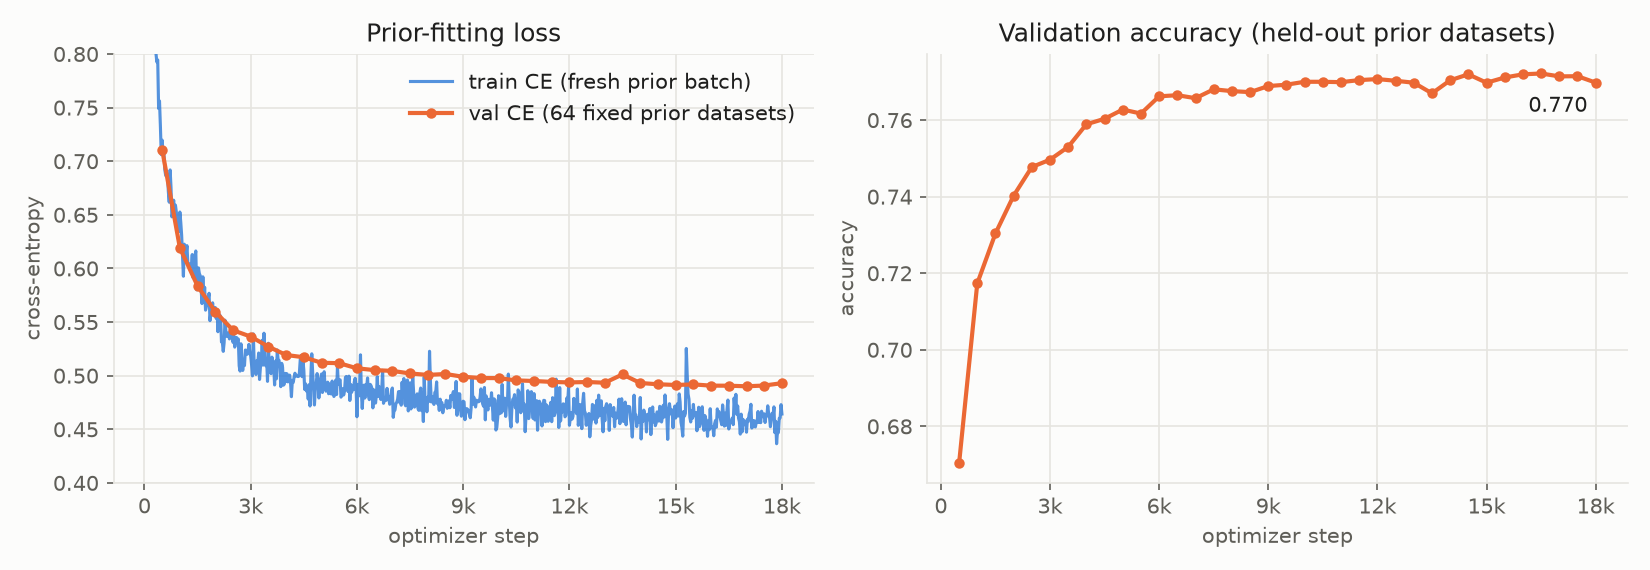
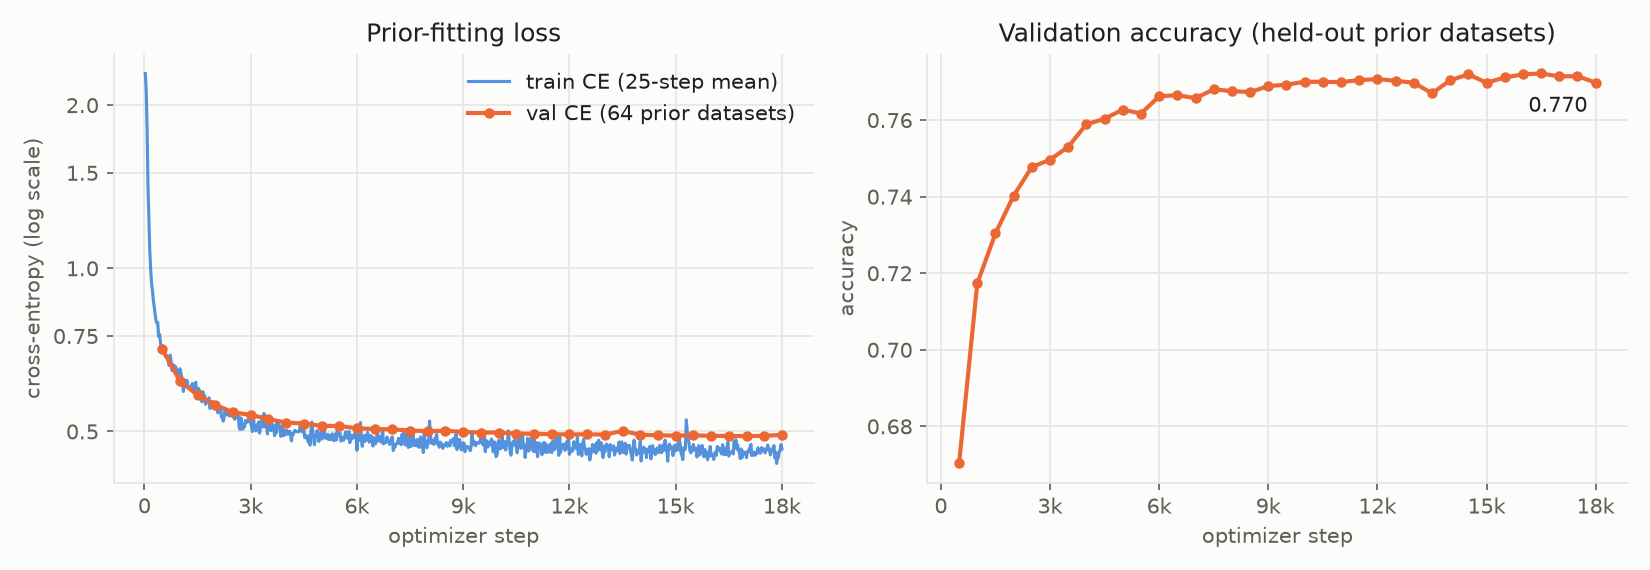
hub: address review on the TabPFN v1 card and push script
- plot_tabpfn_card.py regenerates the card figures from a run's history.json
  and eval_table1/ and prints the numbers the card quotes. The loss panel now
  uses a log axis so the curve is visible from the start (2.29) to the end.
- The card names the MLflow run its figures come from, and describes train CE
  as a 25-step mean, which is what train.py logs.
- push_tabpfn_to_hub.py starts from an empty staging folder, copies only the
  images the card links to (inside the card's images/), refuses --run-id when
  the card names another run, deletes Hub images the card no longer uses, and
  lists every prepared file.

diff --git a/scripts/plot_tabpfn_card.py b/scripts/plot_tabpfn_card.py
@@ -1,0 +1,176 @@
+"""학습 run의 기록으로 Hub 모델 카드의 그림을 만든다.
+
+예) 저장소 루트에서 (.env.local을 불러온 셸)
+  MLFLOW_TRACKING_URI=databricks \
+    uv run python scripts/plot_tabpfn_card.py --run-id <학습 run_id>
+
+run의 `history.json`과 `eval_table1/eval_per_dataset.csv`(`eval_tabpfn.py --run-id`가 남긴다)를
+내려받아 `--out-dir`(기본 `hub/minipfn-tabpfn-v1/images/`)에 두 그림을 쓴다.
+
+- `training_curves.png`: train CE(25 step 평균)와 val CE, val accuracy
+- `table1_roc_auc.png`: Table 1 데이터셋별 ROC AUC, TabPFN과 sklearn 기본값 중 가장 좋은 것
+
+카드 본문에 적을 수치(마지막 val CE·accuracy, 평균 ROC AUC)도 함께 출력한다.
+그림 안의 글자는 영어로 쓴다.
+"""
+
+from __future__ import annotations
+
+import argparse
+import json
+from pathlib import Path
+
+import matplotlib.pyplot as plt
+import mlflow
+import numpy as np
+import pandas as pd
+
+from minipfn.tabpfn import spec
+
+REPO_ROOT = Path(__file__).resolve().parents[1]
+BASELINES = [
+    "LogisticRegression (default)",
+    "HistGradientBoosting (default)",
+    "RandomForest (default)",
+]
+BLUE, ORANGE, GRAY = "#2a78d6", "#eb6834", "#8a8984"
+INK, MUTED, GRID, SURFACE = "#1f1f1e", "#5f5e58", "#e6e5e0", "#fcfcfb"
+STYLE = {
+    "figure.facecolor": SURFACE,
+    "axes.facecolor": SURFACE,
+    "savefig.facecolor": SURFACE,
+    "axes.edgecolor": GRID,
+    "axes.labelcolor": MUTED,
+    "xtick.color": MUTED,
+    "ytick.color": MUTED,
+    "text.color": INK,
+    "axes.grid": True,
+    "grid.color": GRID,
+    "grid.linewidth": 0.8,
+    "axes.spines.top": False,
+    "axes.spines.right": False,
+    "font.size": 10,
+    "legend.frameon": False,
+}
+
+
+def parse_args(argv: list[str] | None = None) -> argparse.Namespace:
+    parser = argparse.ArgumentParser(description=__doc__.splitlines()[0])
+    parser.add_argument("--run-id", required=True, help="학습 run (history.json, eval_table1/)")
+    parser.add_argument("--out-dir", type=Path, default=REPO_ROOT / "hub/minipfn-tabpfn-v1/images")
+    return parser.parse_args(argv)
+
+
+def plot_training_curves(h: dict, path: Path) -> None:
+    fig, axes = plt.subplots(1, 2, figsize=(11, 3.8))
+    ax = axes[0]
+    ax.plot(
+        h["step"], h["train_ce"], color=BLUE, lw=1.5, alpha=0.8, label="train CE (25-step mean)"
+    )
+    ax.plot(
+        h["val_step"],
+        h["val_ce"],
+        "o-",
+        color=ORANGE,
+        lw=2,
+        ms=4,
+        label="val CE (64 prior datasets)",
+    )
+    # 처음 loss(약 2.3)와 끝 loss(약 0.46)를 한 그림에 담으려고 log 축을 쓴다.
+    ax.set_yscale("log")
+    ax.set_yticks([0.5, 0.75, 1.0, 1.5, 2.0], ["0.5", "0.75", "1.0", "1.5", "2.0"])
+    ax.minorticks_off()
+    ax.set(xlabel="optimizer step", ylabel="cross-entropy (log scale)", title="Prior-fitting loss")
+    ax.legend(loc="upper right")
+    ax = axes[1]
+    ax.plot(h["val_step"], h["val_acc"], "o-", color=ORANGE, lw=2, ms=4)
+    ax.annotate(
+        f"{h['val_acc'][-1]:.3f}",
+        (h["val_step"][-1], h["val_acc"][-1]),
+        xytext=(-4, -14),
+        textcoords="offset points",
+        ha="right",
+        color=INK,
+    )
+    ax.set(
+        xlabel="optimizer step",
+        ylabel="accuracy",
+        title="Validation accuracy (held-out prior datasets)",
+    )
+    for a in axes:
+        a.xaxis.set_major_locator(plt.MultipleLocator(3000))
+        a.xaxis.set_major_formatter(lambda x, _: f"{x / 1000:.0f}k" if x else "0")
+    fig.tight_layout()
+    fig.savefig(path, dpi=150)
+    plt.close(fig)
+
+
+def plot_table1(per_dataset: pd.DataFrame, path: Path) -> float:
+    wide = per_dataset.pivot(index="dataset", columns="method", values="roc_auc")
+    wide["baseline"] = wide[BASELINES].max(axis=1)
+    wide = wide.sort_values("TabPFN")
+    mean = wide["TabPFN"].mean()
+
+    fig, ax = plt.subplots(figsize=(8, 6.5))
+    y = np.arange(len(wide))
+    lo = wide[["TabPFN", "baseline"]].min(axis=1)
+    hi = wide[["TabPFN", "baseline"]].max(axis=1)
+    ax.hlines(y, lo, hi, color=GRID, lw=2, zorder=1)
+    ax.scatter(
+        wide["baseline"],
+        y,
+        s=45,
+        marker="s",
+        color=GRAY,
+        zorder=2,
+        label="best sklearn default (LR / HGB / RF)",
+    )
+    ax.scatter(
+        wide["TabPFN"],
+        y,
+        s=55,
+        color=BLUE,
+        edgecolors=SURFACE,
+        linewidths=1.5,
+        zorder=3,
+        label="minipfn TabPFN (ensemble 32)",
+    )
+    ax.set_yticks(y, wide.index, fontsize=9)
+    ax.grid(axis="y", visible=False)
+    ax.set_xlabel("ROC AUC (mean over 5 splits)")
+    paper = spec.PAPER_TABLE1_ROC_AUC["TabPFN"]
+    ax.set_title(
+        f"Table 1 datasets (OpenML-CC18)\nmean ROC AUC {mean:.3f} (paper {paper:.3f})", loc="left"
+    )
+    ax.legend(loc="lower right", fontsize=9)
+    fig.tight_layout()
+    fig.savefig(path, dpi=150)
+    plt.close(fig)
+    return mean
+
+
+def main(argv: list[str] | None = None) -> None:
+    args = parse_args(argv)
+    args.out_dir.mkdir(parents=True, exist_ok=True)
+    history = json.loads(
+        Path(
+            mlflow.artifacts.download_artifacts(run_id=args.run_id, artifact_path="history.json")
+        ).read_text()
+    )
+    per_dataset = pd.read_csv(
+        mlflow.artifacts.download_artifacts(
+            run_id=args.run_id, artifact_path="eval_table1/eval_per_dataset.csv"
+        )
+    )
+
+    plt.rcParams.update(STYLE)
+    plot_training_curves(history, args.out_dir / "training_curves.png")
+    mean = plot_table1(per_dataset, args.out_dir / "table1_roc_auc.png")
+    print("saved:", sorted(p.name for p in args.out_dir.glob("*.png")))
+    print(f"run {args.run_id}")
+    print(f"final val CE {history['val_ce'][-1]:.3f}, val accuracy {history['val_acc'][-1]:.3f}")
+    print(f"Table 1 mean ROC AUC (ensemble 32) {mean:.3f}")
+
+
+if __name__ == "__main__":
+    main()

diff --git a/scripts/push_tabpfn_to_hub.py b/scripts/push_tabpfn_to_hub.py
@@ -8,17 +8,21 @@
     --repo-id <owner/name> --dry-run
 
 MLflow run의 `model/tabpfn_final.pt`를 `model.safetensors` + `config.json`으로 바꾸고, 모델
-카드(옆에 `images/`가 있으면 함께)와 저장소 루트의 `NOTICE`를 붙여 올린다. 모델 카드는
-`--model-card`로 주거나, 주지 않으면 repo 이름으로 `hub/<name>/README.md`를 찾는다.
-`--dry-run`이면 폴더만 만들고 올리지 않는다.
+카드와 저장소 루트의 `NOTICE`를 붙여 올린다. 모델 카드는 `--model-card`로 주거나, 주지 않으면
+repo 이름으로 `hub/<name>/README.md`를 찾는다. 카드가 `](images/...)`로 링크한 그림만 카드
+옆에서 복사하고, Hub의 `images/`에서 카드가 더는 쓰지 않는 파일은 지운다. `--dry-run`이면
+폴더만 만들고 올리지 않는다.
 
 공개 repo를 실수로 덮어쓰지 않도록 `--repo-id`는 기본값 없이 받는다. 모델 카드는 paper run
-결과를 적고 있어서, paper 크기가 아닌 모델은 `--allow-non-paper`를 줄 때만 올린다.
+결과를 적고 있어서, paper 크기가 아닌 모델은 `--allow-non-paper`를 줄 때만 올린다. 카드의
+그림과 수치가 다른 run의 것이 되지 않도록, `--run-id`로 올릴 때는 카드에 그 run id가 적혀
+있어야 한다(그림은 `plot_tabpfn_card.py --run-id`로 다시 만든다).
 """
 
 from __future__ import annotations
 
 import argparse
+import re
 import shutil
 from pathlib import Path
 
@@ -32,6 +36,7 @@ from minipfn.tabpfn.train import TabPFNConfig, load_tabpfn
 REPO_ROOT = Path(__file__).resolve().parents[1]
 HUB_DIR = REPO_ROOT / "hub"
 NOTICE = REPO_ROOT / "NOTICE"
+IMAGE_LINK = re.compile(r"\]\((images/[^)\s]+)\)")
 
 
 def parse_args(argv: list[str] | None = None) -> argparse.Namespace:
@@ -65,6 +70,26 @@ def resolve_model_card(repo_id: str, model_card: Path | None) -> Path:
     return card
 
 
+def card_images(card: Path) -> list[str]:
+    """카드가 링크한 `images/` 아래 그림의 상대 경로. 없는 파일이나 폴더 밖 경로는 막는다."""
+    images_dir = (card.parent / "images").resolve()
+    paths = sorted(set(IMAGE_LINK.findall(card.read_text())))
+    for rel in paths:
+        path = (card.parent / rel).resolve()
+        if not path.is_relative_to(images_dir) or not path.is_file():
+            raise SystemExit(f"카드가 링크한 그림이 {images_dir} 안에 없습니다: {rel}")
+    return paths
+
+
+def check_card_run(card: Path, run_id: str) -> None:
+    """카드의 그림과 수치가 올리는 run의 것인지 확인한다."""
+    if run_id not in card.read_text():
+        raise SystemExit(
+            f"모델 카드에 run {run_id}가 없습니다. 카드는 다른 run의 결과를 적고 있을 수 있으니"
+            " plot_tabpfn_card.py --run-id로 그림을 다시 만들고 카드의 수치와 run id를 고쳐 주세요."
+        )
+
+
 def check_paper_config(config: TabPFNConfig) -> None:
     """모델 카드의 결과(18,000 step, 12층)와 맞는 run인지 확인한다."""
     paper = TabPFNConfig.paper()
@@ -80,6 +105,9 @@ def main(argv: list[str] | None = None) -> None:
     args = parse_args(argv)
     # 큰 artifact를 받기 전에 카드부터 확인한다.
     model_card = resolve_model_card(args.repo_id, args.model_card)
+    images = card_images(model_card)
+    if args.run_id:
+        check_card_run(model_card, args.run_id)
     out_dir = Path(args.out_dir)
     path = args.model_path or mlflow.artifacts.download_artifacts(
         run_id=args.run_id, artifact_path="model/tabpfn_final.pt", dst_path=str(out_dir / "mlflow")
@@ -87,12 +115,14 @@ def main(argv: list[str] | None = None) -> None:
     model, config = load_tabpfn(path)
     if not args.allow_non_paper:
         check_paper_config(config)
+    # 지난 실행의 파일이 섞여 올라가지 않도록 매번 빈 폴더에서 시작한다.
+    shutil.rmtree(out_dir / "upload", ignore_errors=True)
     upload_dir = save_pretrained(model, config, out_dir / "upload")
     shutil.copy(model_card, upload_dir / "README.md")
     shutil.copy(NOTICE, upload_dir / "NOTICE")
-    # 카드가 쓰는 그림은 카드 옆 images/에 둔다.
-    if (model_card.parent / "images").is_dir():
-        shutil.copytree(model_card.parent / "images", upload_dir / "images", dirs_exist_ok=True)
+    for rel in images:
+        (upload_dir / rel).parent.mkdir(parents=True, exist_ok=True)
+        shutil.copy(model_card.parent / rel, upload_dir / rel)
 
     # 올리기 전에 변환한 파일만으로 같은 가중치가 다시 만들어지는지 확인한다.
     reloaded, _ = from_pretrained(upload_dir)
@@ -101,14 +131,21 @@ def main(argv: list[str] | None = None) -> None:
     ):
         if not torch.equal(a, b):
             raise RuntimeError(f"변환한 가중치가 원본과 다릅니다: {name}")
-    print("prepared:", sorted(p.name for p in upload_dir.iterdir()))
+    prepared = sorted(str(p.relative_to(upload_dir)) for p in upload_dir.rglob("*") if p.is_file())
+    print("prepared:", prepared)
     if args.dry_run:
         return
 
     api = HfApi()
     api.create_repo(args.repo_id, repo_type="model", private=args.private, exist_ok=True)
     message = f"Upload TabPFN weights from MLflow run {args.run_id}" if args.run_id else None
-    commit = api.upload_folder(repo_id=args.repo_id, folder_path=upload_dir, commit_message=message)
+    # 같은 commit에서 다시 올리는 파일은 지우지 않으므로, 카드가 더는 쓰지 않는 그림만 지워진다.
+    commit = api.upload_folder(
+        repo_id=args.repo_id,
+        folder_path=upload_dir,
+        commit_message=message,
+        delete_patterns=["images/*"],
+    )
     print("uploaded:", commit.commit_url)
 
 

diff --git a/hub/minipfn-tabpfn-v1/README.md b/hub/minipfn-tabpfn-v1/README.md
@@ -24,7 +24,7 @@ This is not the official TabPFN checkpoint. For the official models see [PriorLa
 
 ## Training
 
-Train CE is the loss on each step's freshly sampled prior batch; val CE and accuracy are on 64 fixed prior datasets, logged every 500 steps. Final val CE 0.493, val accuracy 0.770.
+Figures and numbers on this card come from MLflow run `977614dce2104e44915f81b02705a178`. Train CE is the mean loss over each 25-step window, every step on a freshly sampled prior batch; val CE and accuracy are on 64 fixed prior datasets, logged every 500 steps. Final val CE 0.493, val accuracy 0.770.
 
 ![Training curves](images/training_curves.png)
 
